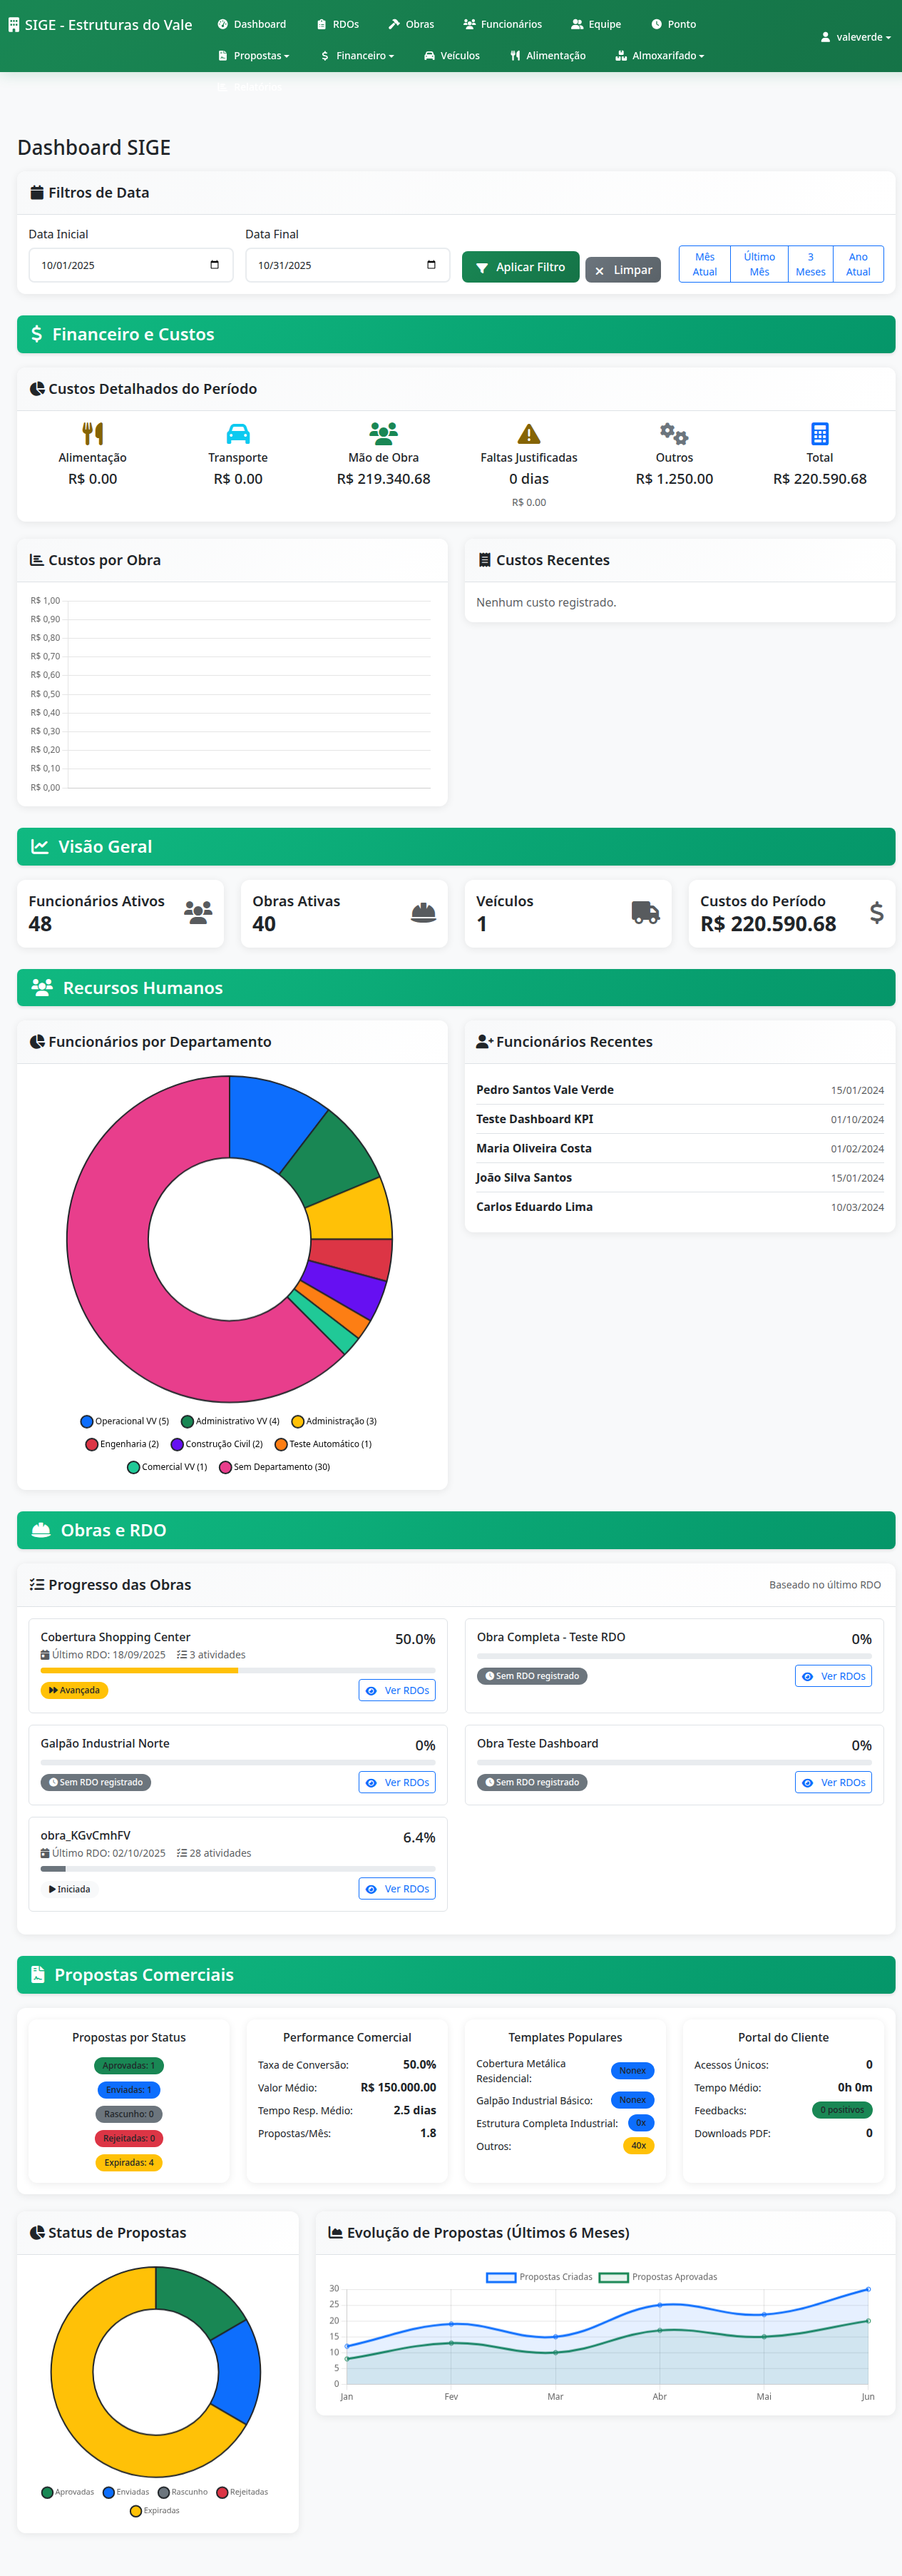
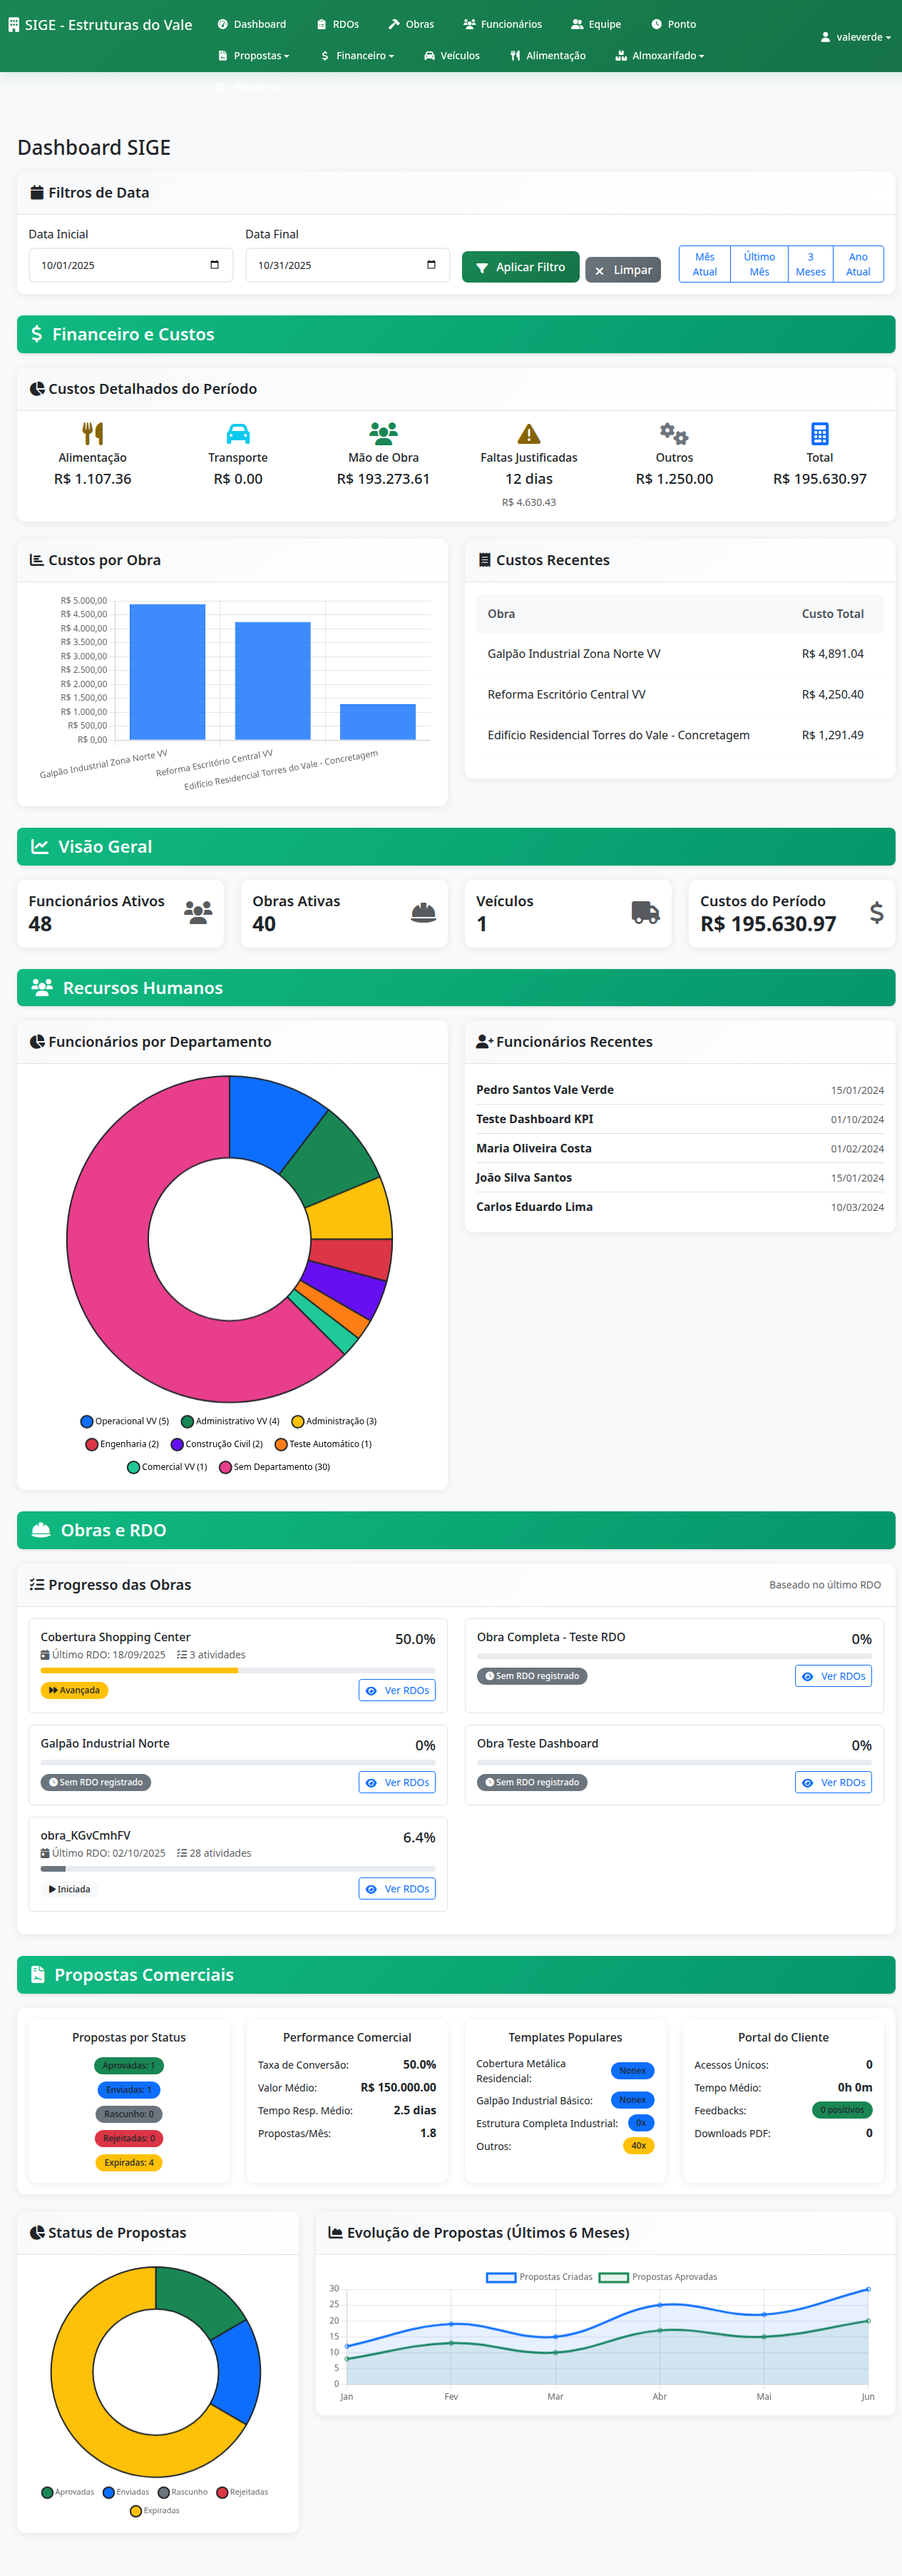
Add script to populate employee attendance and justified absence data
Create a Python script to populate complete test data for attendance, justified absences, and costs per work, including associated employees.

Replit-Commit-Author: Agent
Replit-Commit-Session-Id: 81144666-f173-4135-ac1d-2ec71230ac7e
Replit-Commit-Checkpoint-Type: full_checkpoint
Replit-Commit-Screenshot-Url: https://storage.googleapis.com/screenshot-production-us-central1/a719a4a9-73c7-43ac-9f05-28b6e4b40780/81144666-f173-4135-ac1d-2ec71230ac7e/fVJHam4

diff --git a/popular_kpis_completas.py b/popular_kpis_completas.py
@@ -1,0 +1,363 @@
+#!/usr/bin/env python3
+"""
+Script para popular dados de teste completos das KPIs:
+- Alimentação
+- Faltas Justificadas
+- Custos por Obra (com funcionários associados)
+"""
+
+import sys
+import os
+from datetime import date, datetime, timedelta
+from decimal import Decimal
+
+sys.path.insert(0, os.path.dirname(os.path.abspath(__file__)))
+
+from app import app, db
+from models import (
+    Funcionario, RegistroPonto, Obra, 
+    RegistroAlimentacao, Restaurante
+)
+
+def criar_restaurante(admin_id=10):
+    """Cria restaurante para lançamentos de alimentação"""
+    
+    print("🍽  Criando restaurante...")
+    
+    rest = Restaurante.query.filter_by(
+        nome="Restaurante Teste Dashboard",
+        admin_id=admin_id
+    ).first()
+    
+    if rest:
+        print(f"✅ Restaurante já existe: {rest.nome} (ID: {rest.id})")
+        return rest
+    
+    rest = Restaurante(
+        nome="Restaurante Teste Dashboard",
+        endereco="Rua das Refeições, 100",
+        telefone="(11) 3333-3333",
+        razao_social="Restaurante Teste LTDA",
+        cnpj="12.345.678/0001-99",
+        pix="restaurante@teste.com",
+        nome_conta="Restaurante Teste",
+        admin_id=admin_id
+    )
+    
+    db.session.add(rest)
+    db.session.flush()
+    
+    print(f"✅ Restaurante criado: {rest.nome} (ID: {rest.id})")
+    return rest
+
+def buscar_funcionarios_obras(admin_id=10):
+    """Busca funcionários e obras existentes"""
+    
+    print("\n📋 Buscando funcionários e obras...")
+    
+    funcionarios = Funcionario.query.filter_by(admin_id=admin_id, ativo=True).limit(5).all()
+    obras = Obra.query.filter_by(admin_id=admin_id, ativo=True).limit(3).all()
+    
+    print(f"✅ Encontrados {len(funcionarios)} funcionários")
+    print(f"✅ Encontradas {len(obras)} obras")
+    
+    if len(funcionarios) == 0:
+        print("⚠  AVISO: Nenhum funcionário encontrado! Execute popular_dados_teste.py primeiro")
+        return [], []
+    
+    if len(obras) == 0:
+        print("⚠  AVISO: Nenhuma obra encontrada! Execute popular_dados_teste.py primeiro")
+        return funcionarios, []
+    
+    return funcionarios, obras
+
+def criar_registros_ponto_obras(funcionarios, obras, admin_id=10):
+    """Cria registros de ponto associados às obras"""
+    
+    print("\n⏰ Criando registros de ponto com obras...")
+    
+    if not funcionarios or not obras:
+        print("⚠  Sem funcionários ou obras - pulando")
+        return 0
+    
+    registros_criados = 0
+    
+    # Período: últimos 10 dias
+    data_fim = date.today()
+    data_inicio = data_fim - timedelta(days=9)
+    
+    # Distribuir funcionários pelas obras
+    for i, func in enumerate(funcionarios):
+        obra = obras[i % len(obras)]  # Rotaciona entre as obras
+        
+        data_atual = data_inicio
+        while data_atual <= data_fim:
+            # Pular finais de semana
+            if data_atual.weekday() < 5:
+                
+                # Verificar se já existe
+                existe = RegistroPonto.query.filter_by(
+                    funcionario_id=func.id,
+                    data=data_atual,
+                    obra_id=obra.id
+                ).first()
+                
+                if not existe:
+                    # Criar alguns dias com falta justificada (30% de chance)
+                    import random
+                    eh_falta_justificada = random.random() < 0.3
+                    
+                    if eh_falta_justificada:
+                        # Falta justificada
+                        registro = RegistroPonto(
+                            funcionario_id=func.id,
+                            obra_id=obra.id,
+                            data=data_atual,
+                            tipo_registro='falta_justificada',
+                            observacoes='Atestado médico',
+                            admin_id=admin_id
+                        )
+                    else:
+                        # Dia normal de trabalho
+                        entrada = datetime.combine(data_atual, datetime.strptime("08:00", "%H:%M").time())
+                        saida = datetime.combine(data_atual, datetime.strptime("17:48", "%H:%M").time())
+                        horas = 8.8
+                        
+                        registro = RegistroPonto(
+                            funcionario_id=func.id,
+                            obra_id=obra.id,
+                            data=data_atual,
+                            hora_entrada=entrada.time(),
+                            hora_saida=saida.time(),
+                            horas_trabalhadas=horas,
+                            horas_extras=0,
+                            tipo_registro='normal',
+                            admin_id=admin_id
+                        )
+                    
+                    db.session.add(registro)
+                    registros_criados += 1
+            
+            data_atual += timedelta(days=1)
+        
+        print(f"   ✅ {func.nome[:30]:30} → Obra: {obra.nome[:30]:30}")
+    
+    db.session.flush()
+    print(f"✅ {registros_criados} registros de ponto criados (com obras)")
+    return registros_criados
+
+def criar_registros_alimentacao(funcionarios, obras, restaurante, admin_id=10):
+    """Cria registros de alimentação para funcionários e obras"""
+    
+    print("\n🍽  Criando registros de alimentação...")
+    
+    if not funcionarios or not obras or not restaurante:
+        print("⚠  Faltam dados necessários - pulando")
+        return 0
+    
+    registros_criados = 0
+    
+    # Período: últimos 10 dias
+    data_fim = date.today()
+    data_inicio = data_fim - timedelta(days=9)
+    
+    # Para cada funcionário, criar registros de almoço nos dias trabalhados
+    for func in funcionarios:
+        # Buscar registros de ponto do funcionário
+        registros_ponto = RegistroPonto.query.filter(
+            RegistroPonto.funcionario_id == func.id,
+            RegistroPonto.data >= data_inicio,
+            RegistroPonto.data <= data_fim,
+            RegistroPonto.tipo_registro == 'normal'  # Só criar alimentação em dias trabalhados
+        ).all()
+        
+        for reg in registros_ponto:
+            # Verificar se já existe
+            existe = RegistroAlimentacao.query.filter_by(
+                funcionario_id=func.id,
+                data=reg.data,
+                obra_id=reg.obra_id
+            ).first()
+            
+            if not existe:
+                # Valor do almoço: R$ 25,00 a R$ 35,00
+                import random
+                valor_almoco = round(random.uniform(25.0, 35.0), 2)
+                
+                registro_alim = RegistroAlimentacao(
+                    funcionario_id=func.id,
+                    obra_id=reg.obra_id,
+                    restaurante_id=restaurante.id,
+                    data=reg.data,
+                    tipo='almoco',
+                    valor=valor_almoco,
+                    observacoes=f'Almoço - {restaurante.nome}'
+                )
+                
+                db.session.add(registro_alim)
+                registros_criados += 1
+    
+    db.session.flush()
+    print(f"✅ {registros_criados} registros de alimentação criados")
+    return registros_criados
+
+def gerar_relatorio_kpis(funcionarios, obras, admin_id=10):
+    """Gera relatório das KPIs populadas"""
+    
+    print("\n" + "="*70)
+    print("📊 RELATÓRIO DE KPIs POPULADAS")
+    print("="*70)
+    
+    # Período de análise
+    data_fim = date.today()
+    data_inicio = data_fim - timedelta(days=9)
+    
+    print(f"\n📅 Período: {data_inicio.strftime('%d/%m/%Y')} a {data_fim.strftime('%d/%m/%Y')}")
+    print(f"🏢 Admin: Vale Verde (ID: {admin_id})")
+    
+    # 1. Alimentação
+    print("\n🍽  KPI: ALIMENTAÇÃO")
+    print("-" * 70)
+    
+    alimentacao_total = db.session.query(
+        db.func.count(RegistroAlimentacao.id),
+        db.func.sum(RegistroAlimentacao.valor)
+    ).join(
+        Funcionario, RegistroAlimentacao.funcionario_id == Funcionario.id
+    ).filter(
+        Funcionario.admin_id == admin_id,
+        RegistroAlimentacao.data >= data_inicio,
+        RegistroAlimentacao.data <= data_fim
+    ).first()
+    
+    qtd_alimentacao = alimentacao_total[0] or 0
+    custo_alimentacao = float(alimentacao_total[1] or 0)
+    
+    print(f"   Total de refeições: {qtd_alimentacao}")
+    print(f"   Custo total: R$ {custo_alimentacao:,.2f}")
+    if qtd_alimentacao > 0:
+        print(f"   Custo médio/refeição: R$ {custo_alimentacao/qtd_alimentacao:.2f}")
+    
+    # 2. Faltas Justificadas
+    print("\n📋 KPI: FALTAS JUSTIFICADAS")
+    print("-" * 70)
+    
+    faltas = RegistroPonto.query.filter(
+        RegistroPonto.admin_id == admin_id,
+        RegistroPonto.data >= data_inicio,
+        RegistroPonto.data <= data_fim,
+        RegistroPonto.tipo_registro == 'falta_justificada'
+    ).all()
+    
+    custo_faltas = 0
+    for falta in faltas:
+        func = Funcionario.query.get(falta.funcionario_id)
+        if func and func.salario:
+            import calendar
+            mes = falta.data.month
+            ano = falta.data.year
+            dias_uteis = sum(1 for dia in range(1, calendar.monthrange(ano, mes)[1] + 1) 
+                            if date(ano, mes, dia).weekday() < 5)
+            valor_dia = func.salario / dias_uteis
+            custo_faltas += valor_dia
+    
+    print(f"   Quantidade de faltas: {len(faltas)}")
+    print(f"   Custo total: R$ {custo_faltas:,.2f}")
+    if len(faltas) > 0:
+        print(f"   Custo médio/falta: R$ {custo_faltas/len(faltas):.2f}")
+    
+    # 3. Custos por Obra
+    print("\n🏗  KPI: CUSTOS POR OBRA")
+    print("-" * 70)
+    
+    for obra in obras:
+        # Mão de obra
+        registros_obra = RegistroPonto.query.filter(
+            RegistroPonto.obra_id == obra.id,
+            RegistroPonto.data >= data_inicio,
+            RegistroPonto.data <= data_fim,
+            RegistroPonto.tipo_registro == 'normal'
+        ).all()
+        
+        custo_mao_obra = 0
+        for reg in registros_obra:
+            func = Funcionario.query.get(reg.funcionario_id)
+            if func and func.salario:
+                # Valor hora aproximado
+                valor_hora = func.salario / 220  # aproximação
+                horas = (reg.horas_trabalhadas or 0)
+                custo_mao_obra += horas * valor_hora
+        
+        # Alimentação
+        alim_obra = db.session.query(
+            db.func.sum(RegistroAlimentacao.valor)
+        ).filter(
+            RegistroAlimentacao.obra_id == obra.id,
+            RegistroAlimentacao.data >= data_inicio,
+            RegistroAlimentacao.data <= data_fim
+        ).scalar() or 0
+        
+        custo_total_obra = custo_mao_obra + float(alim_obra)
+        
+        print(f"\n   📍 {obra.nome}")
+        print(f"      Mão de Obra: R$ {custo_mao_obra:,.2f}")
+        print(f"      Alimentação: R$ {float(alim_obra):,.2f}")
+        print(f"      TOTAL: R$ {custo_total_obra:,.2f}")
+    
+    print("\n" + "="*70)
+
+def main():
+    """Função principal"""
+    
+    print("\n" + "="*70)
+    print("🚀 POPULAR KPIs COMPLETAS - DASHBOARD SIGE")
+    print("="*70 + "\n")
+    
+    admin_id = 10  # Vale Verde
+    
+    try:
+        with app.app_context():
+            # 1. Buscar funcionários e obras existentes
+            funcionarios, obras = buscar_funcionarios_obras(admin_id)
+            
+            if not funcionarios:
+                print("\n❌ ERRO: Nenhum funcionário encontrado!")
+                print("Execute primeiro: python3 popular_dados_teste.py")
+                return 1
+            
+            # 2. Criar restaurante
+            restaurante = criar_restaurante(admin_id)
+            
+            # 3. Criar registros de ponto com obras
+            criar_registros_ponto_obras(funcionarios, obras, admin_id)
+            
+            # 4. Criar registros de alimentação
+            criar_registros_alimentacao(funcionarios, obras, restaurante, admin_id)
+            
+            # Commit
+            db.session.commit()
+            
+            # 5. Gerar relatório
+            gerar_relatorio_kpis(funcionarios, obras, admin_id)
+            
+            print("\n✅ DADOS POPULADOS COM SUCESSO!")
+            print("\n🎯 Próximos passos:")
+            print("   1. Acesse: http://localhost:5000/login")
+            print("   2. Login: valeverde / admin123")
+            print("   3. Dashboard mostrará as 3 KPIs populadas")
+            print("   4. Execute teste e2e para validar\n")
+            
+    except Exception as e:
+        print(f"\n❌ ERRO: {str(e)}")
+        import traceback
+        traceback.print_exc()
+        try:
+            db.session.rollback()
+        except:
+            pass
+        return 1
+    
+    return 0
+
+if __name__ == "__main__":
+    sys.exit(main())
